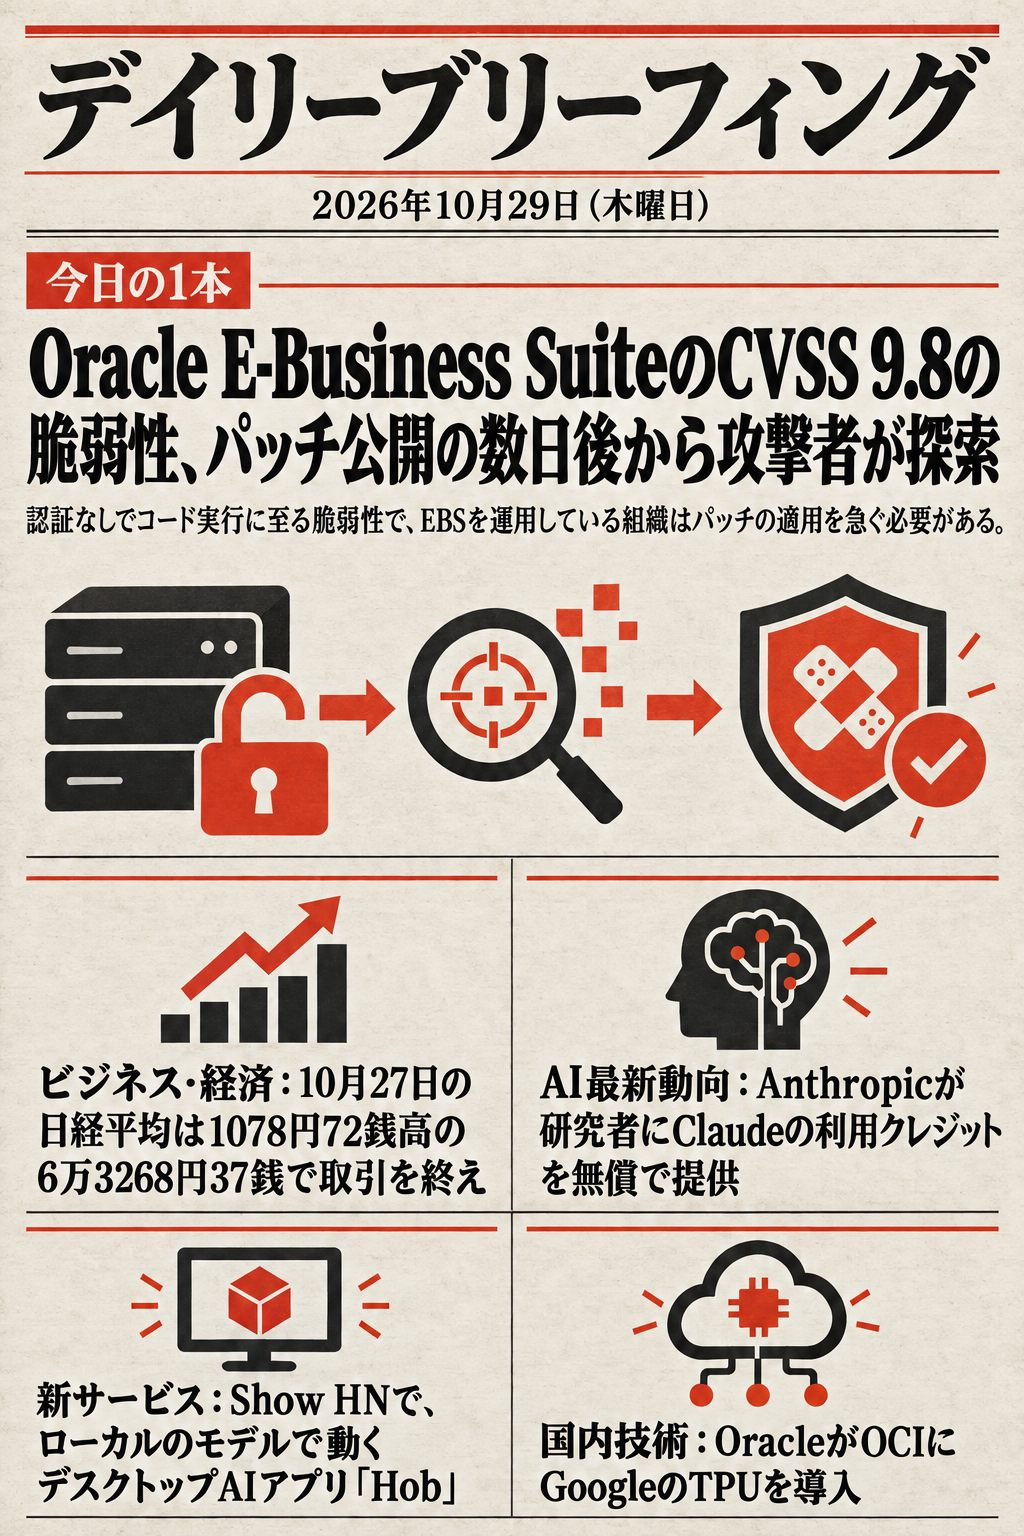
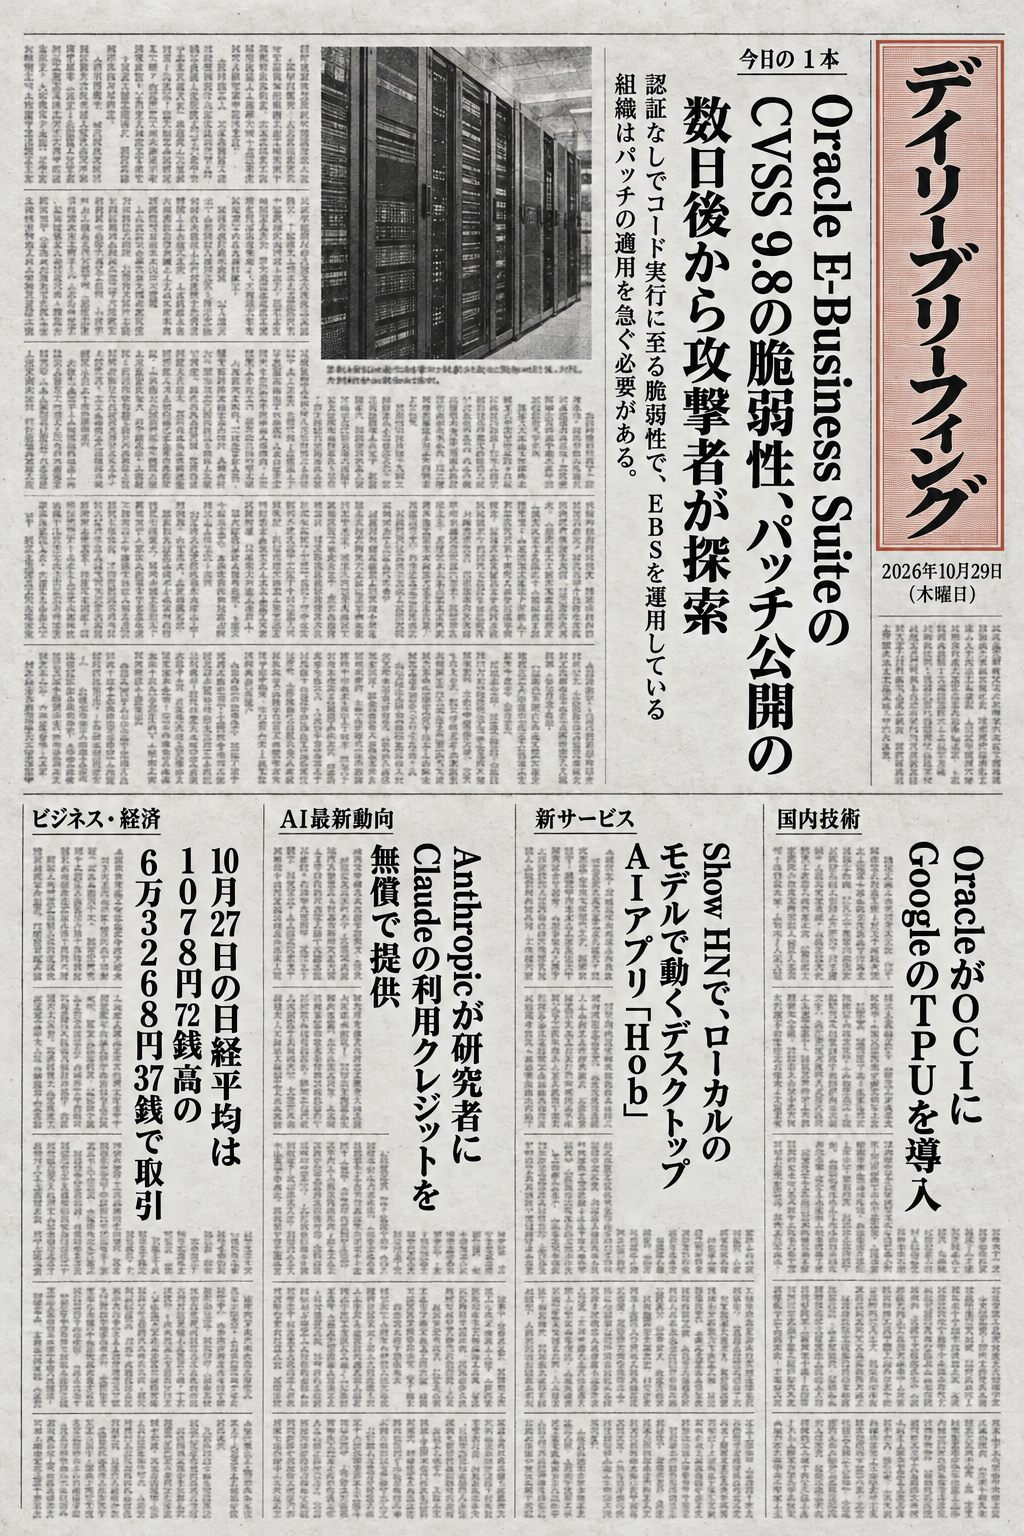
feat: 紙面画像を全国紙朝刊の一面風(縦書き・段組・題字)に変更
- gen-paper-image.ps1: インフォグラフィック調のプロンプトを、縦書き右起こし・多段組・
  グリーク化した本文・明朝体見出し・モノクロ図版の新聞紙面に書き換え
- 下段見出しの上限を42→36字に調整
- 10-29号の画像を新版で再生成して差し替え、キャプションの「イラスト」表記を修正

diff --git a/_layouts/post.html b/_layouts/post.html
@@ -14,7 +14,7 @@ layout: default
       <h1 class="post-title-date">{{ d }}<span class="post-title-wday">（{{ wdays[w] }}）</span></h1>
     </header>
     {% if pick_img %}
-    <figure class="pick-figure"><img src="{{ pick_path | relative_url }}" alt="今日の紙面イラスト"><figcaption>今日の紙面（AI生成イラスト・本文は下記が正）— タップで拡大</figcaption></figure>
+    <figure class="pick-figure"><img src="{{ pick_path | relative_url }}" alt="今日の紙面（AI生成）"><figcaption>今日の紙面（AI生成・記事本文は下記が正）— タップで拡大</figcaption></figure>
     {% endif %}
     <div class="post-body">
       {{ content }}

diff --git a/index.md b/index.md
@@ -18,7 +18,7 @@ title: デイリーブリーフィング
       <h1 class="post-title-date"><a href="{{ latest_post.url | relative_url }}">{{ d }}<span class="post-title-wday">（{{ wdays[w] }}）</span></a></h1>
     </header>
     {% if pick_img %}
-    <figure class="pick-figure"><img src="{{ pick_path | relative_url }}" alt="今日の紙面イラスト"><figcaption>今日の紙面（AI生成イラスト・本文は下記が正）— タップで拡大</figcaption></figure>
+    <figure class="pick-figure"><img src="{{ pick_path | relative_url }}" alt="今日の紙面（AI生成）"><figcaption>今日の紙面（AI生成・記事本文は下記が正）— タップで拡大</figcaption></figure>
     {% endif %}
     <div class="post-body">
 {{ latest_post.content }}
